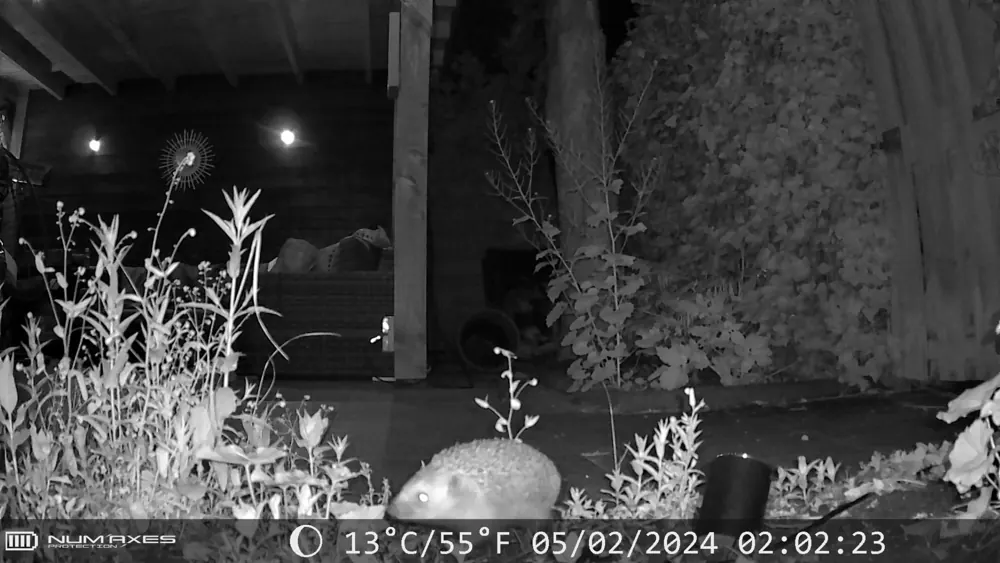
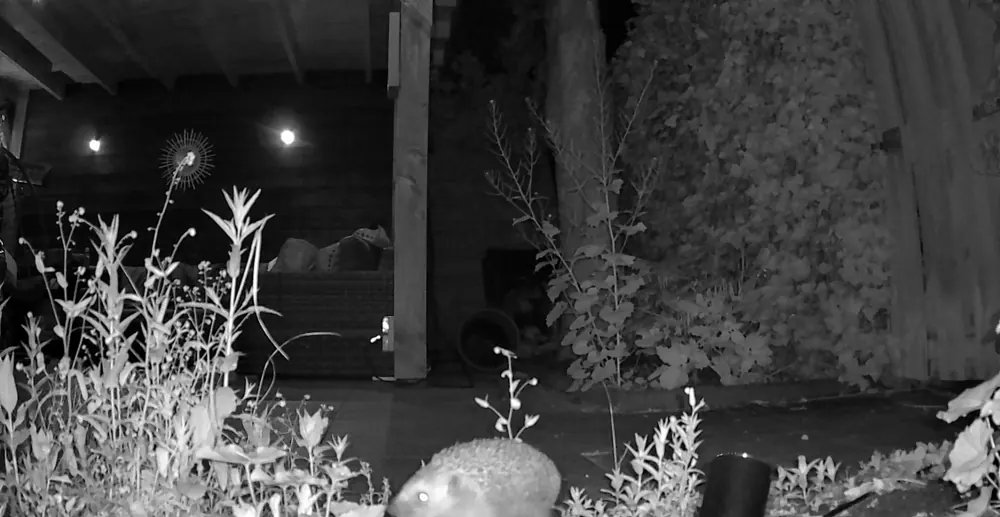
Wildcamerafoto egel: datumstempel weggesneden

diff --git a/egels.html b/egels.html
@@ -52,7 +52,7 @@
         <p>Zo help je mee aan echt wetenschappelijk onderzoek. Deze actie wordt mogelijk gemaakt door het Buurtfonds van de Nationale Postcode Loterij.</p>
         <h2>De eerste vangsten</h2>
         <p>De camera’s draaien, en de eerste nachtelijke bezoekers zijn al vastgelegd: een vos met een wel heel grote karper in zijn bek, en een egel op het terras.</p>
-        <div class="photo-row"><img src="images/wildcamera-vos.webp" width="1000" height="458" alt="Wildcamerabeeld: een vos met een grote karper in zijn bek" loading="lazy" data-lightbox><img src="images/wildcamera-egel.webp" width="1000" height="563" alt="Wildcamerabeeld: een egel op het terras" loading="lazy" data-lightbox></div>
+        <div class="photo-row"><img src="images/wildcamera-vos.webp" width="1000" height="458" alt="Wildcamerabeeld: een vos met een grote karper in zijn bek" loading="lazy" data-lightbox><img src="images/wildcamera-egel.webp" width="1000" height="517" alt="Wildcamerabeeld: een egel op het terras" loading="lazy" data-lightbox></div>
         <h2>Meedoen</h2>
         <ul>
         <li>Een gratis <strong>egelpoortje</strong> aanvragen: mail ons, of app Ron op 06-46293590. Coördinator van het egelproject is Martin Ockhuijsen.</li>
